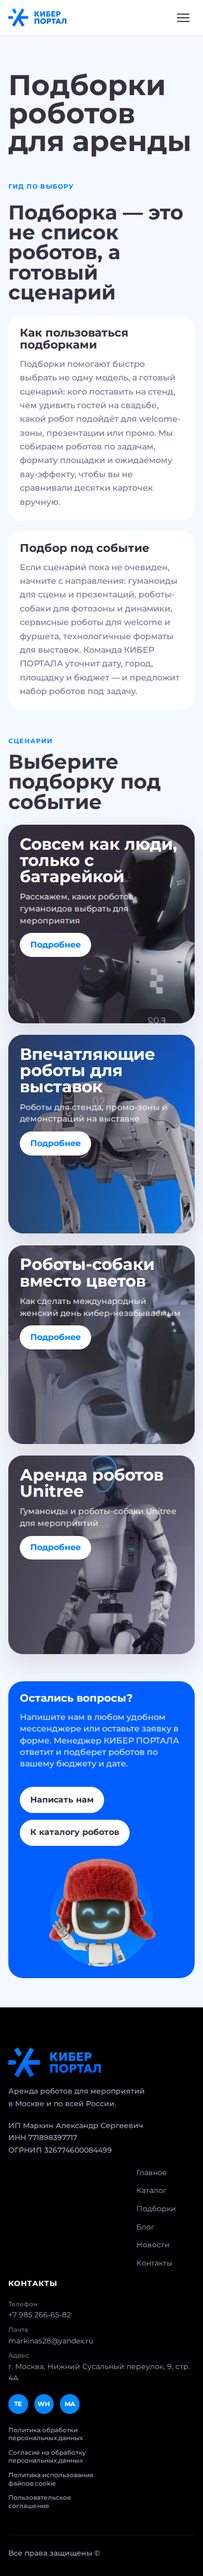
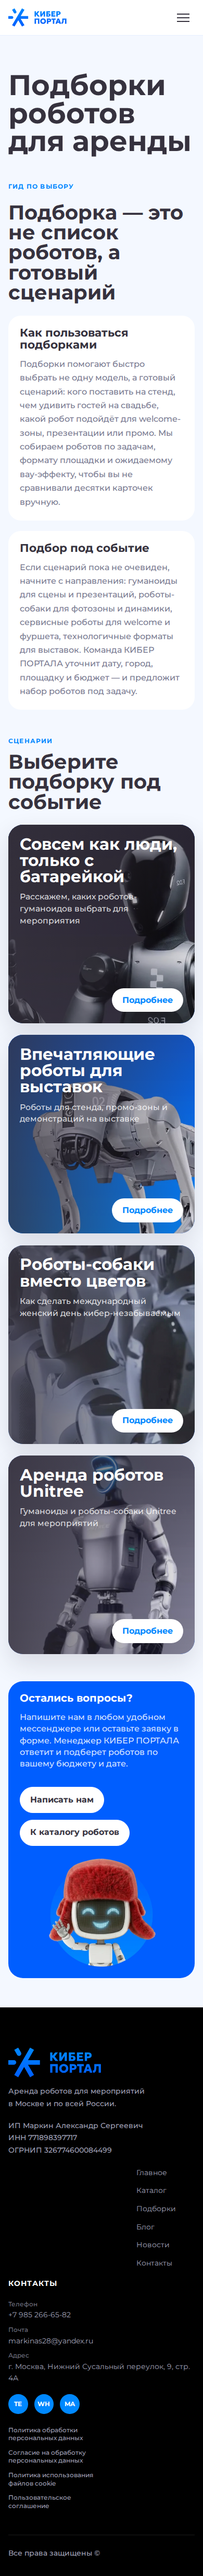
fix: pin compilations card buttons

diff --git a/tests/visual/compilations-index-page.test.ts b/tests/visual/compilations-index-page.test.ts
@@ -41,6 +41,7 @@ test('KIBER-91 compilations index uses two-column card layout on desktop', () =>
   assert.match(page, /min-height:\s*clamp\(18\.75rem, 28\.75vw, 25rem\)/);
   assert.match(page, /@media \(max-width: 56rem\)[\s\S]*min-height:\s*22\.5rem/);
   assert.match(page, /@media \(max-width: 39\.9375rem\)[\s\S]*min-height:\s*23\.75rem/);
+  assert.match(page, /\.compilations-page__card \{[\s\S]*display:\s*flex[\s\S]*flex-direction:\s*column[\s\S]*align-items:\s*flex-start/);
   assert.match(page, /\.compilations-page__card-cta \{[\s\S]*margin-top:\s*auto/);
 });
 
